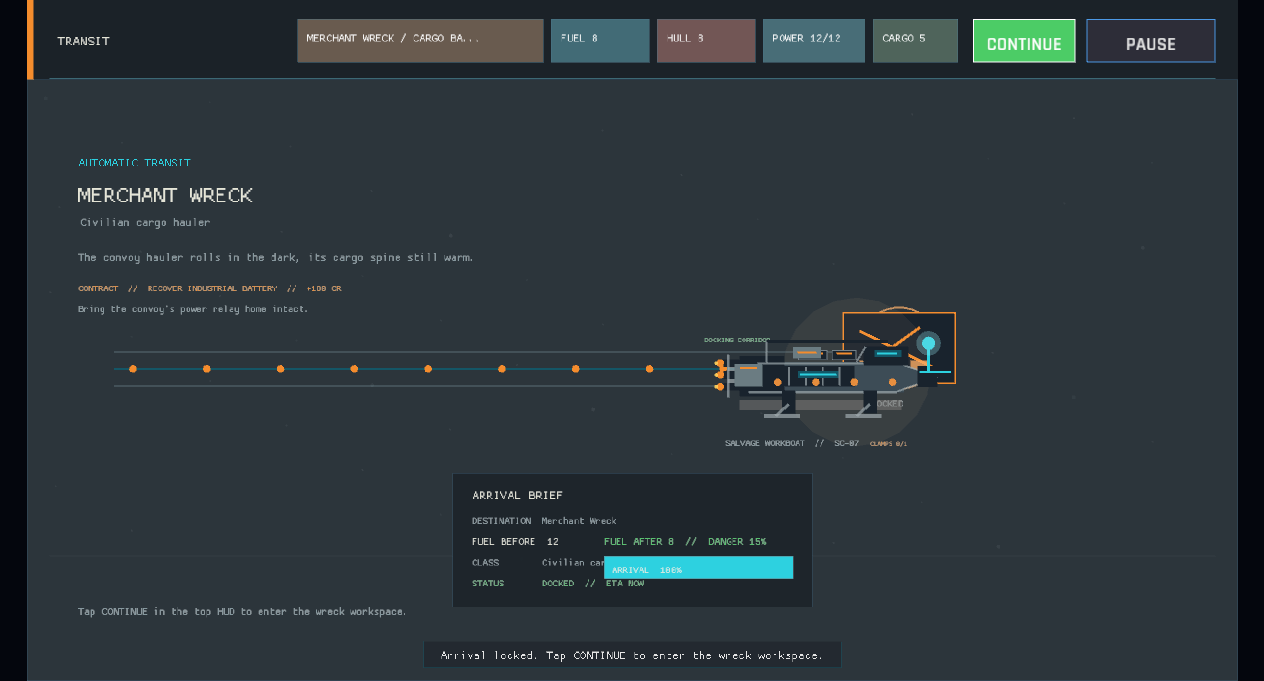
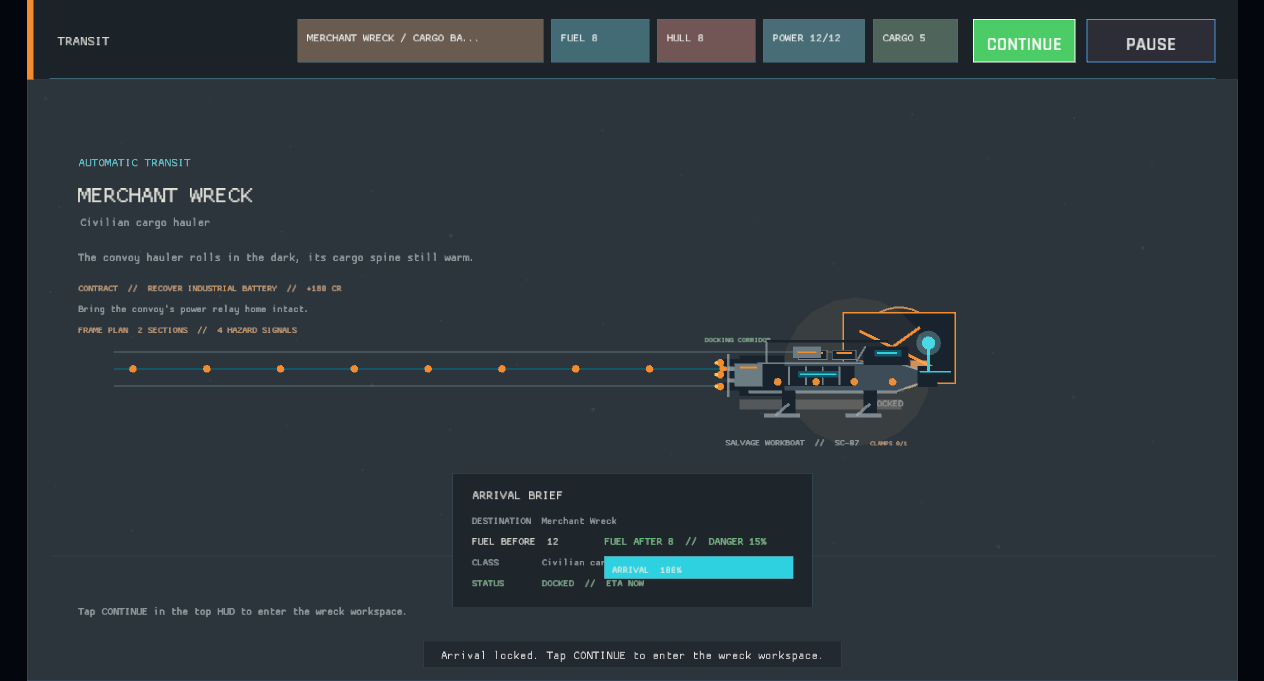
The approach display counts the frames waiting beyond the first hatch (arrival frame plan, GDD 6.3)
Travel now shows the destination's authored section count and total hazard-signal count before docking. The arrival plan is computed from site data and covered by a regression test so the preview stays honest as wreck content grows.

diff --git a/src/ui/travel.rs b/src/ui/travel.rs
@@ -104,6 +104,17 @@ pub fn draw_travel(ctx: &UiContext<'_>, _actions: &mut Vec<UiAction>) {
             visual_theme::text_dim(),
         );
     }
+    draw_text(
+        format!(
+            "FRAME PLAN  {} SECTIONS  //  {} HAZARD SIGNALS",
+            site.sections.len(),
+            site_hazard_count(site)
+        ),
+        54.0,
+        352.0,
+        12.0,
+        visual_theme::site_accent(&site.visual_theme),
+    );
     let phase = travel_phase(progress);
     draw_transit_route(
         progress,
@@ -217,6 +228,13 @@ fn travel_eta_label(progress: f32) -> String {
     } else {
         format!("{seconds}s")
     }
+}
+
+fn site_hazard_count(site: &crate::data::SiteData) -> usize {
+    site.sections
+        .iter()
+        .map(|section| section.hazard_tags.len())
+        .sum()
 }
 
 fn travel_phase_color(phase: TravelPhase) -> Color {

diff --git a/src/ui/travel/tests.rs b/src/ui/travel/tests.rs
@@ -22,6 +22,13 @@ fn travel_eta_reports_seconds_then_now() {
 }
 
 #[test]
+fn site_hazard_count_covers_the_full_arrival_plan() {
+    let data = crate::data::GameData::load().unwrap();
+    let site = data.sites.get("merchant_wreck").unwrap();
+    assert_eq!(site_hazard_count(site), 4);
+}
+
+#[test]
 fn travel_instructions_name_the_visible_next_control() {
     assert!(travel_instruction(TravelPhase::Cruise).contains("ARRIVE"));
     assert!(travel_instruction(TravelPhase::Docked).contains("CONTINUE"));
